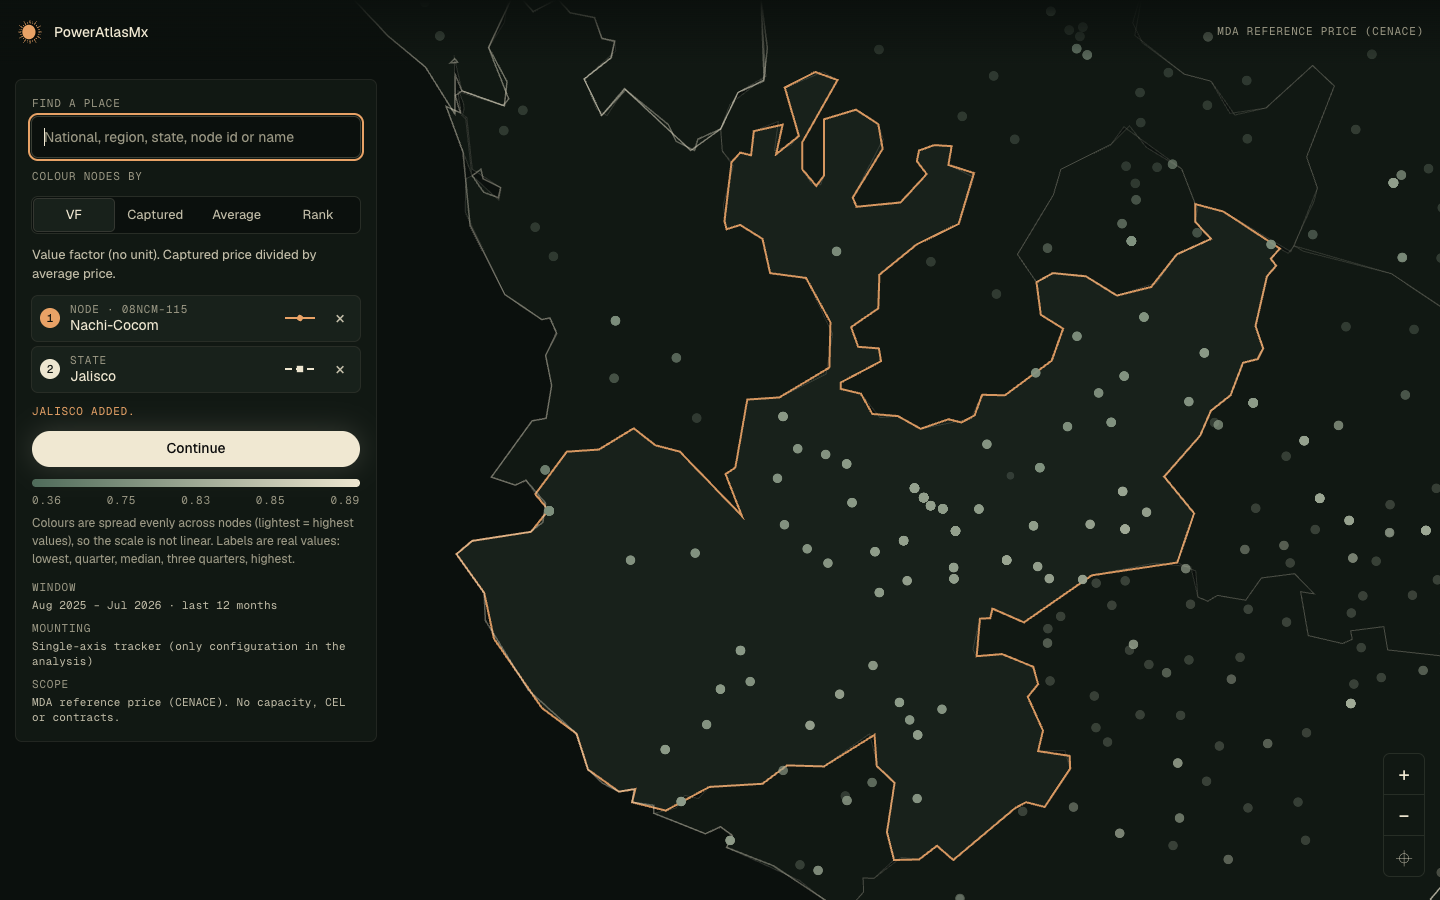
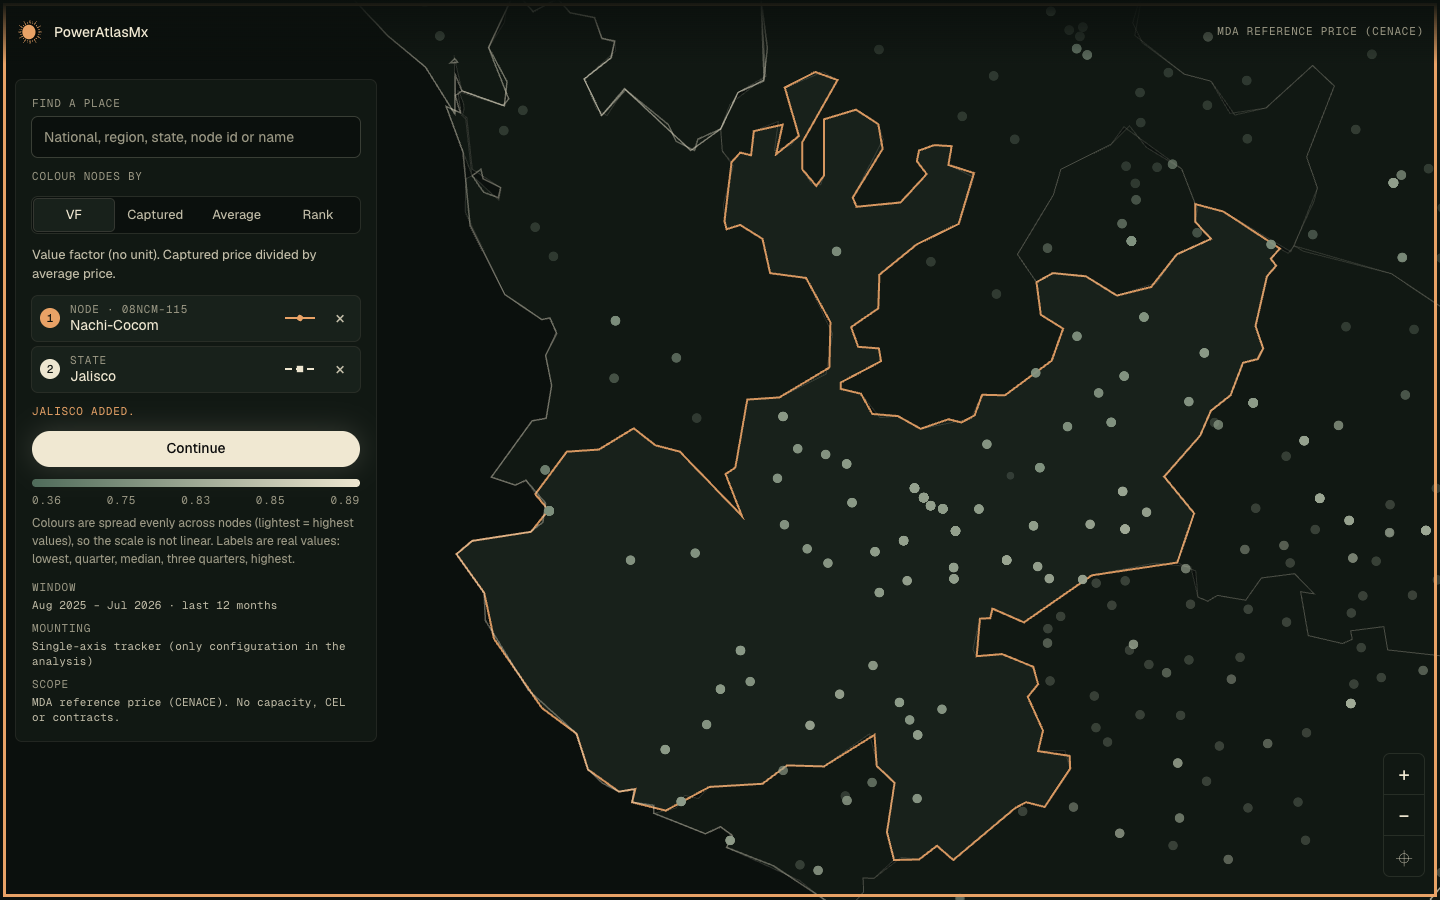
v2: m7 fixes (versioned precache, safe SW update, offline fallback, focus ring, loading state)

Changed region(s): [[0.0, 0.9644, 1.0, 1.0], [0.0, 0.1244, 0.0312, 0.1867]]

diff --git a/web/v2/sw.js b/web/v2/sw.js
@@ -1,34 +1,45 @@
-// PowerAtlasMx v2 service worker, scope /v2/. Small on purpose:
-//  - app shell + fonts + hero: stale-while-revalidate (instant repeat visits, updated in the background)
-//  - data JSON: network first, the cached copy is only an offline fallback (never served while online)
-//  - navigations: network first, cached shell or offline.html when offline
-// Bump VERSION on every release that changes the shell; old caches are deleted on activate.
-const VERSION = 'v2-m7-3';
+// PowerAtlasMx v2 service worker, scope /v2/.
+//  - One release = one cache (SHELL). install precaches the WHOLE shell (all-or-nothing, list generated by
+//    tools/precache-manifest.mjs); files are served cache-first within the release, so module versions never mix.
+//  - A new worker waits; it takes over when the page is reloaded at a safe point (main.js asks it to skip waiting on load).
+//  - Data JSON: network first, the cached copy is only an offline fallback.
+//  - v1's worker deletes every cache that does not start with its own VERSION (including ours): if that happens the shell is
+//    re-filled from the network on the next online visit, and offline navigations fall back to an inline page, never undefined.
+// Bump VERSION on every release that changes the shell.
+const VERSION = 'v2-m7-4';
 const SHELL = `v2-shell-${VERSION}`;
-const DATA = `v2-data-${VERSION}`;
-importScripts('sw-strategy.js');
-const CORE = ['./', 'offline.html', 'main.js', 'config.js', 'assets/css/tokens.css', 'assets/css/base.css', 'assets/css/map.css', 'assets/css/landing.css', 'assets/css/flow.css', 'assets/css/explorer.css',
-  'assets/fonts/Geist-Variable.woff2', 'assets/fonts/GeistMono-Variable.woff2', 'assets/img/hero-sun-1000.webp', 'assets/icons/eclipse.svg', 'assets/js/landing.js'];
+const DATA = 'v2-data';
+importScripts('sw-strategy.js', 'precache.js');
 
-self.addEventListener('install', (e) => {
-  e.waitUntil(caches.open(SHELL).then((c) => Promise.all(CORE.map((u) => c.add(u).catch(() => null)))).then(() => self.skipWaiting()));
-});
+const OFFLINE_HTML = '<!doctype html><html lang="en"><meta charset="utf-8"><meta name="viewport" content="width=device-width, initial-scale=1"><title>Offline · PowerAtlasMx</title>'
+  + '<body style="margin:0;min-height:100vh;display:grid;place-items:center;background:#0A0A0A;color:#F0E8D2;font:450 16px/1.5 system-ui,sans-serif;padding:24px"><main style="max-width:420px">'
+  + '<h1 style="font-weight:450;letter-spacing:-.04em;margin:0 0 8px">You are offline</h1><p style="color:#C3BEA9">PowerAtlasMx could not reach the server and this page is not stored on this device yet. Open it again when you are back online.</p></main></body></html>';
+const inlineOffline = () => new Response(OFFLINE_HTML, { status: 503, headers: { 'Content-Type': 'text/html; charset=utf-8' } });
+
+const precache = () => caches.open(SHELL).then((c) => c.addAll(self.PRECACHE));
+
+self.addEventListener('install', (e) => { e.waitUntil(precache()); });
 self.addEventListener('activate', (e) => {
-  // navigation preload: the page request starts while the worker boots, so a cold worker does not delay first paint
   const preload = self.registration.navigationPreload ? self.registration.navigationPreload.enable().catch(() => null) : null;
-  e.waitUntil(Promise.all([preload, caches.keys().then((ks) => Promise.all(ks.filter((k) => k.startsWith('v2-') && k !== SHELL && k !== DATA).map((k) => caches.delete(k))))]).then(() => self.clients.claim()));
+  e.waitUntil(Promise.all([preload, caches.keys().then((ks) => Promise.all(self.swStrategy.staleCaches(ks, SHELL, DATA).map((k) => caches.delete(k))))]));
 });
+self.addEventListener('message', (e) => { if (e.data === 'SKIP_WAITING') self.skipWaiting(); });
 
-const put = (name, req, res) => { if (res && res.ok) { const cp = res.clone(); caches.open(name).then((c) => c.put(req, cp)); } return res; };
-const offline = () => caches.match('offline.html');
+// cache.put rejects for partial (206) and opaque responses: ignore those, they are simply not stored
+const store = (name, req, res) => (res && res.ok && res.status === 200 ? caches.open(name).then((c) => c.put(req, res.clone())).catch(() => null) : Promise.resolve());
 
 const handlers = {
-  navigate: (req, e) => Promise.resolve(e.preloadResponse).then((p) => p || fetch(req)).then((r) => put(SHELL, req, r)).catch(() => caches.match(req).then((h) => h || caches.match('./')).then((h) => h || offline())),
-  static: (req) => caches.match(req).then((hit) => {
-    const net = fetch(req).then((r) => put(SHELL, req, r)).catch(() => hit || Response.error());
-    return hit || net;
+  navigate: (req, e) => caches.open(SHELL).then((c) => c.match('./')).then((hit) => {
+    if (hit) return hit;
+    // shell missing (never installed fully, or removed by v1's worker): go to the network and re-fill it
+    return Promise.resolve(e.preloadResponse).then((p) => p || fetch(req)).then((r) => { if (r && r.ok) e.waitUntil(precache().catch(() => null)); return r; })
+      .catch(() => inlineOffline());
   }),
-  data: (req) => fetch(req).then((r) => put(DATA, req, r)).catch(() => caches.match(req).then((h) => h || Response.error())),
+  static: (req, e) => caches.open(SHELL).then((c) => c.match(req)).then((hit) => {
+    if (hit) return hit;
+    return fetch(req).then((r) => { e.waitUntil(store(SHELL, req, r)); return r; }).catch(() => Response.error());
+  }),
+  data: (req, e) => fetch(req).then((r) => { e.waitUntil(store(DATA, req, r)); return r; }).catch(() => caches.open(DATA).then((c) => c.match(req)).then((h) => h || Response.error())),
 };
 
 self.addEventListener('fetch', (e) => {
@@ -38,5 +49,6 @@ self.addEventListener('fetch', (e) => {
   if (url.origin !== location.origin) return;
   const s = self.swStrategy.strategyFor(url.pathname, req.mode);
   if (s === 'bypass') return;
+  if (req.headers.has('range')) return; // media-style partial requests are never cached
   e.respondWith(handlers[s](req, e));
 });

diff --git a/web/v2/sw-strategy.js b/web/v2/sw-strategy.js
@@ -3,12 +3,16 @@
   /** pathname + request mode -> 'navigate' | 'static' | 'data' | 'bypass' */
   function strategyFor(pathname, mode) {
     if (pathname === '/v2/sw.js' || pathname === '/v2/sw-strategy.js') return 'bypass';          // always fresh: the update flow
-    if (mode === 'navigate' && pathname.indexOf('/v2/') === 0) return 'navigate';                // network first, cached shell offline
-    if (pathname.indexOf('/v2/') === 0) return 'static';                                         // v2 app files: stale-while-revalidate
-    if (pathname.indexOf('/assets/js/') === 0 || pathname === '/assets/geo/mx.json') return 'static'; // v1 pure modules + geometry reused by v2
+    if (mode === 'navigate' && pathname.indexOf('/v2/') === 0) return 'navigate';                // cached shell of this release, network only when missing
+    if (pathname.indexOf('/v2/') === 0) return 'static';                                         // v2 app files: cache-first within the release
+    if (pathname.indexOf('/assets/js/') === 0 || pathname === '/assets/geo/mx.json') return 'static'; // v1 pure modules + geometry reused by v2 (precached with the release)
     if (pathname.indexOf('/data/') === 0) return 'data';                                         // JSON: network first, offline fallback only
     return 'bypass';
   }
-  const api = { strategyFor };
+  /** v2 cache names to delete on activate: every v2-* cache except the current shell and the (version-less) data cache. */
+  function staleCaches(keys, shell, data) {
+    return keys.filter(function (k) { return k.indexOf('v2-') === 0 && k !== shell && k !== data; });
+  }
+  const api = { strategyFor: strategyFor, staleCaches: staleCaches };
   if (typeof module !== 'undefined' && module.exports) module.exports = api; else root.swStrategy = api;
 })(typeof self !== 'undefined' ? self : this);

diff --git a/web/v2/assets/js/svg-charts.js b/web/v2/assets/js/svg-charts.js
@@ -92,14 +92,17 @@ export function stackChart({ energia, perdidas, congestion, base, cap, H = 260, 
 
 /** two bars per hour (a = left, b = right). Used for shortcut vs hour-by-hour revenue. */
 export function pairChart({ a, b, ca, cb, H = 220, aria, ytitle = 'MXN per MWp', unit = 'MXN' }) {
-  const { g, y } = axis(H, niceTicks(0, Math.max(...a, ...b, 1e-9)).ticks, (v) => num(v, 0), ytitle);
-  const iw = W - PAD.l - PAD.r, step = iw / 24, bw = step * 0.38;
+  const vals = finite([...a, ...b]);
+  const sc = niceTicks(Math.min(0, ...vals), Math.max(...vals, 1e-9));
+  const { g, y } = axis(H, sc.ticks, (v) => num(v, 0), ytitle);
+  const iw = W - PAD.l - PAD.r, step = iw / 24, bw = step * 0.38, y0 = y(0);
   let out = g;
   for (let h = 0; h < 24; h++) {
     const x = PAD.l + step * h + step * 0.08, hh = String(h).padStart(2, '0');
     [[a[h], ca, 'shortcut'], [b[h], cb, 'hour by hour']].forEach(([v, c, nm], k) => {
       if (v === null || v === undefined) return;
-      out += `<rect x="${(x + k * (bw + 1)).toFixed(1)}" y="${y(v).toFixed(1)}" width="${bw.toFixed(1)}" height="${Math.max(0.5, y(0) - y(v)).toFixed(1)}" fill="${c}"><title>${hh}:00 ${nm}: ${num(v, 0)} ${unit}</title></rect>`;
+      const y1 = y(v), top = Math.min(y0, y1), hgt = Math.max(0.5, Math.abs(y0 - y1));
+      out += `<rect x="${(x + k * (bw + 1)).toFixed(1)}" y="${Math.min(top, H - PAD.b - hgt).toFixed(1)}" width="${bw.toFixed(1)}" height="${hgt.toFixed(1)}" fill="${c}"><title>${hh}:00 ${nm}: ${num(v, 0)} ${unit}</title></rect>`;
     });
     if (h % 3 === 0) out += `<text x="${(x + bw).toFixed(1)}" y="${H - 12}" text-anchor="middle" class="tick">${hh}</text>`;
   }

diff --git a/web/v2/main.js b/web/v2/main.js
@@ -142,7 +142,18 @@ async function route() {
 window.addEventListener('hashchange', () => { queue = queue.then(route).catch(console.error); });
 queue = queue.then(route).catch(console.error);
 
-// service worker (scope /v2/): registered after load so it never competes with first paint
+// service worker (scope /v2/): registered after load so it never competes with first paint.
+// A new release waits; at this safe point (a freshly loaded page) it is told to take over and the page reloads once,
+// so the shell files of one release are never mixed with another's.
 if ('serviceWorker' in navigator && location.protocol.startsWith('http')) {
-  window.addEventListener('load', () => { navigator.serviceWorker.register('sw.js').catch((e) => console.warn('service worker not registered', e)); });
+  const had = !!navigator.serviceWorker.controller;
+  let reloaded = false;
+  navigator.serviceWorker.addEventListener('controllerchange', () => { if (had && !reloaded) { reloaded = true; location.reload(); } });
+  window.addEventListener('load', () => {
+    navigator.serviceWorker.register('sw.js').then((reg) => {
+      // a release that finished installing in an earlier session is waiting: apply it now (fresh page load = safe point).
+      // A release found during this session just waits and is applied at the next load.
+      if (reg.waiting && navigator.serviceWorker.controller) reg.waiting.postMessage('SKIP_WAITING');
+    }).catch((e) => console.warn('service worker not registered', e));
+  });
 }

diff --git a/web/v2/assets/js/map-view.js b/web/v2/assets/js/map-view.js
@@ -101,7 +101,8 @@ export function createMapView({ deck, container, geo, atlas, callbacks }) {
     const c = container.querySelector('canvas');
     if (!c) return false;
     c.tabIndex = interactive ? 0 : -1;
-    c.setAttribute('role', 'application');
+    if (interactive) c.removeAttribute('aria-hidden'); else c.setAttribute('aria-hidden', 'true'); // the mini card is a link, not a map
+    if (interactive) c.setAttribute('role', 'application'); else c.removeAttribute('role');
     c.setAttribute('aria-label', 'Map of Mexico. Arrow keys pan, plus and minus zoom.');
     return true;
   };
@@ -117,7 +118,12 @@ export function createMapView({ deck, container, geo, atlas, callbacks }) {
     reset(ms = 700) { setVS(fit(MEXICO), ms); },
     flyToBounds(b, ms = 700, maxZoom = 12) { setVS(fit(b, padding, { maxZoom }), ms); },
     flyToNode(n, ms = 700) { setVS({ ...vs, longitude: n.lon, latitude: n.lat, zoom: Math.max(vs.zoom, 7) }, ms); },
-    setInteractive(on) { interactive = on; prepCanvas(); inst.setProps({ controller: on ? CONTROLLER : false }); },
+    setInteractive(on) {
+      interactive = on;
+      inst.setProps({ controller: on ? CONTROLLER : false });
+      prepCanvas();
+      requestAnimationFrame(prepCanvas); // deck re-applies canvas attributes when the controller changes
+    },
     flyToArea(kind, id) {
       const col = kind === 'state' ? geo.states : geo.regions;
       const f = col.features.find((x) => x.properties.key === id);

diff --git a/web/v2/precache.js b/web/v2/precache.js
@@ -1,0 +1,52 @@
+// GENERATED by tools/precache-manifest.mjs (a test fails when it is stale). Paths are relative to /v2/.
+self.PRECACHE = [
+ "./",
+ "../assets/geo/mx.json",
+ "../assets/js/format.js",
+ "../assets/js/geomap.js",
+ "../assets/js/names.js",
+ "assets/css/base.css",
+ "assets/css/explorer.css",
+ "assets/css/flow.css",
+ "assets/css/landing.css",
+ "assets/css/map.css",
+ "assets/css/tokens.css",
+ "assets/fonts/Geist-Variable.woff2",
+ "assets/fonts/GeistMono-Variable.woff2",
+ "assets/icons/eclipse.svg",
+ "assets/img/clients/manifest.json",
+ "assets/img/hero-sun-1000.webp",
+ "assets/img/hero-sun-2000.webp",
+ "assets/js/analysis.js",
+ "assets/js/atlas.js",
+ "assets/js/chips.js",
+ "assets/js/choose.js",
+ "assets/js/compare-data.js",
+ "assets/js/compare-ui.js",
+ "assets/js/controls.js",
+ "assets/js/explorer-compare.js",
+ "assets/js/explorer-data.js",
+ "assets/js/explorer.js",
+ "assets/js/geo.js",
+ "assets/js/json.js",
+ "assets/js/landing.js",
+ "assets/js/live.js",
+ "assets/js/logo.js",
+ "assets/js/map-page.js",
+ "assets/js/map-view.js",
+ "assets/js/metrics.js",
+ "assets/js/nav.js",
+ "assets/js/revenue-compare.js",
+ "assets/js/revenue.js",
+ "assets/js/route-logic.js",
+ "assets/js/selector.js",
+ "assets/js/series-style.js",
+ "assets/js/shell.js",
+ "assets/js/store.js",
+ "assets/js/svg-charts.js",
+ "assets/vendor/deckgl/deck.min.js",
+ "config.js",
+ "index.html",
+ "main.js",
+ "offline.html"
+];

diff --git a/web/v2/assets/js/map-page.js b/web/v2/assets/js/map-page.js
@@ -43,6 +43,7 @@ export function mountMap(root) {
       <button type="button" id="zreset" aria-label="Reset view">⌖</button>
     </div>
     <div class="tip" id="tip" hidden></div>
+    <div class="map-loading mono" id="map-loading" role="status">Loading nodes…</div>
     <div class="nogl" id="nogl" hidden><p>The map needs WebGL, which this browser has turned off. You can still search and select places on the left.</p></div>
     </main>
   </div>`;
@@ -113,8 +114,12 @@ export function mountMap(root) {
   q('#zout').addEventListener('click', () => shell.mv && shell.mv.zoomBy(-1));
   q('#zreset').addEventListener('click', () => shell.mv && shell.mv.reset());
 
+  const loading = q('#map-loading');
+  if (shell.mv || !shell.hasGL) loading.hidden = true;
+  shell.dataReady().then(() => { if (!dead && !shell.mv) loading.textContent = 'Loading map…'; });
   setMetric(shell.metric);
   shell.init().then(() => {
+    loading.hidden = true;
     if (dead || !q('#sel-slot')) return;
     if (shell.failed && !shell.atlas) { shell.say('Data failed to load.'); return; }
     q('#cfg').textContent = `${shell.atlas.config === 'tracker' ? 'Single-axis tracker' : shell.atlas.config} (only configuration in the analysis)`;

diff --git a/web/v2/assets/js/landing.js b/web/v2/assets/js/landing.js
@@ -1,6 +1,7 @@
 // Landing (from the approved mock): black page, eclipse photo right of centre, headline, two pills, muted wordmarks.
 import { CONFIG } from '../../config.js';
 import { eclipseSVG } from './logo.js';
+import { getShell } from './shell.js';
 
 async function clientLogos() {
   try {
@@ -49,6 +50,11 @@ export function renderLanding(root) {
       img.src = c.src; img.alt = c.name; li.append(img); ul.prepend(li);
     }
   });
+
+  // start loading the map data and deck.gl as soon as the visitor shows intent (hover, focus or touch of Deploy Analysis)
+  const warm = () => { getShell().init(); import('./explorer-data.js').then((m) => m.prefetch()); };
+  const deploy = root.querySelector('#deploy');
+  ['pointerenter', 'focus', 'touchstart'].forEach((ev) => deploy.addEventListener(ev, warm, { once: true, passive: true }));
 
   const modal = root.querySelector('#sales');
   let opener = null;

diff --git a/web/v2/assets/css/flow.css b/web/v2/assets/css/flow.css
@@ -62,3 +62,6 @@ h1:focus, main:focus { outline: none; }
   .maphost.is-mini, .mini-hit { width: 140px; height: 100px; top: 64px; right: 12px; }
   .chips-row li { min-width: 0; }
 }
+
+/* deck.gl sets inline outline:none on its canvas: draw the keyboard focus ring on the host instead */
+.maphost:not(.is-mini):has(canvas:focus-visible)::after { content: ''; position: absolute; inset: 0; z-index: 3; pointer-events: none; outline: 3px solid var(--accent); outline-offset: -6px; border-radius: 2px; }

diff --git a/web/v2/assets/js/shell.js b/web/v2/assets/js/shell.js
@@ -36,6 +36,7 @@ export function getShell() {
             onPickNode: (n) => s.toggleNode(n),
             onPickState: (k) => s.pick({ kind: 'state', id: k, label: k }),
           } });
+          s.mv.setInteractive(s.mode === 'full'); // a direct load of an analysis route starts in mini mode
           s.mv.setPadding(PAD[s.mode === 'mini' ? 'mini' : 'full']());
           s.mv.reset(0);
           s.mv.setMetric(s.metric);

diff --git a/web/v2/assets/css/map.css b/web/v2/assets/css/map.css
@@ -61,3 +61,7 @@
 }
 
 .chips .swatch { flex: none; }
+
+.map-loading { pointer-events: none; position: absolute; left: 50%; top: 50%; transform: translate(-50%, -50%); padding: 8px 14px; border-radius: var(--radius); background: var(--surface); box-shadow: var(--ring); color: var(--ink-2); }
+.map-loading[hidden] { display: none; }
+@media (min-width: 761px) { .map-loading { left: calc(50% + 190px); } }

diff --git a/web/v2/README.md b/web/v2/README.md
@@ -44,9 +44,20 @@ the page states the gap. Prices are the MDA reference price (CENACE): no capacit
 "Partial year" note; nothing is annualised.
 
 ## Service worker
-`/v2/sw.js`, scope `/v2/`, registered after load. App shell, fonts and hero: stale-while-revalidate. Data JSON: network first, the cached copy is used only offline.
-Navigations: network first (with navigation preload), cached shell or `offline.html` offline. Bump `VERSION` in `sw.js` on every shell release; old caches are deleted on activate.
-v1's `web/sw.js` ignores `/v2/` URLs. During development, unregister via DevTools > Application > Service Workers, or bump the version.
+`/v2/sw.js`, scope `/v2/`, registered after load.
+- One release = one cache `v2-shell-<VERSION>`. `install` precaches the whole shell (all-or-nothing; the list `precache.js` is generated from the real import graph by
+  `node web/v2/tools/precache-manifest.mjs --write`, and a test fails when it is stale). Files are served cache-first inside the release, so module versions never mix.
+- A new release waits and is applied on the next fresh page load (the page asks it to skip waiting, then reloads once). Bump `VERSION` in `sw.js` on every shell change and regenerate `precache.js`.
+- Data JSON (`/data/...`): network first; the cached copy is only an offline fallback (cache `v2-data`).
+- Navigations: the cached shell of the release; if it is missing the worker goes to the network and re-fills it; offline with nothing cached it answers with an inline "You are offline" page (never undefined).
+- v1's `web/sw.js` deletes every cache that does not start with its own `VERSION`, including v2's. v1 is frozen, so v2 copes: the shell is re-filled on the next online v2 visit.
+- Development: unregister via DevTools > Application > Service Workers, or bump `VERSION`.
+
+## Performance notes (headless Chrome, software GL: lower bounds)
+- Map during pan and zoom: median frame 16.7 ms (60 fps cadence), p95 83 ms, max 383 ms over 373 frames (SwiftShader).
+- Landing: DOMContentLoaded 20 to 300 ms; first contentful paint 60 to 900 ms across runs, about 1.2 s for the very first page load of a fresh browser (browser start-up, not app work).
+  WebGL probing, the JSON data and deck.gl start only after first contentful paint (or when Deploy Analysis is hovered, focused or touched).
+- Not measured on a real GPU or on touch devices.
 
 ## Vendored assets
 - deck.gl 9.4.0 UMD, `assets/vendor/deckgl/` (MIT, README with the reproduce command; about 2 MB, loaded lazily after first paint). A custom esbuild core+layers bundle
@@ -67,7 +78,7 @@ Hero image: NASA/SDO, AIA 171, 2017-08-21 19:41:46 UT (partial solar eclipse; NA
 - Mounting configuration: the analysis files cover the single-axis tracker only; it is shown as a label, not a switch.
 - "Solar output at price <= 0" is energy based (`pct_e0`); an hours-based share is not published in the analysis files.
 - Area records publish no hour count, so the partial-year note applies to nodes only.
-- Not measured on real GPUs or touch devices; frame times in the notes below are from software GL.
+- Not measured on real GPUs or touch devices; the frame-time and paint numbers under "Performance notes" are from software GL and are lower bounds.
 - Baja California systems have no analysis data in the current window (dim "no data" dots).
 
 ## Placeholders pending Nico
